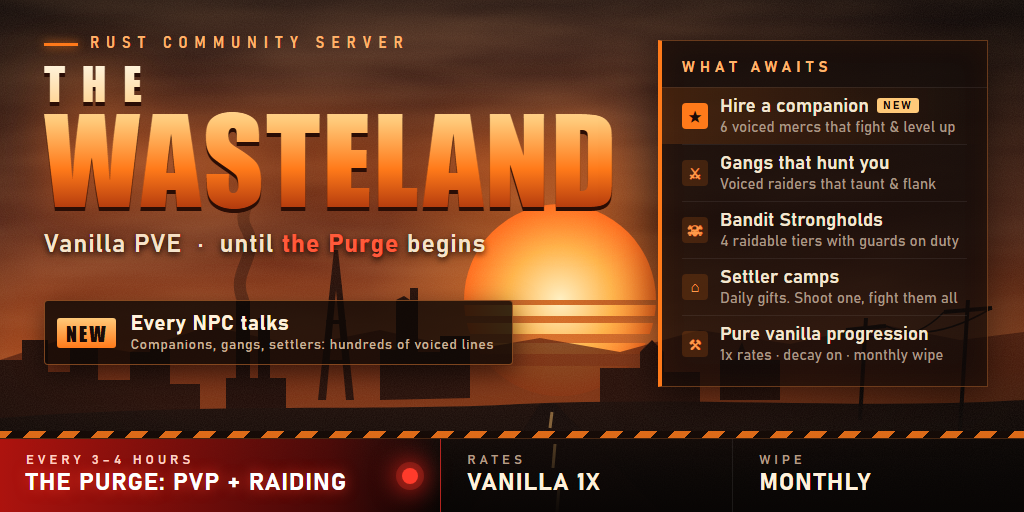
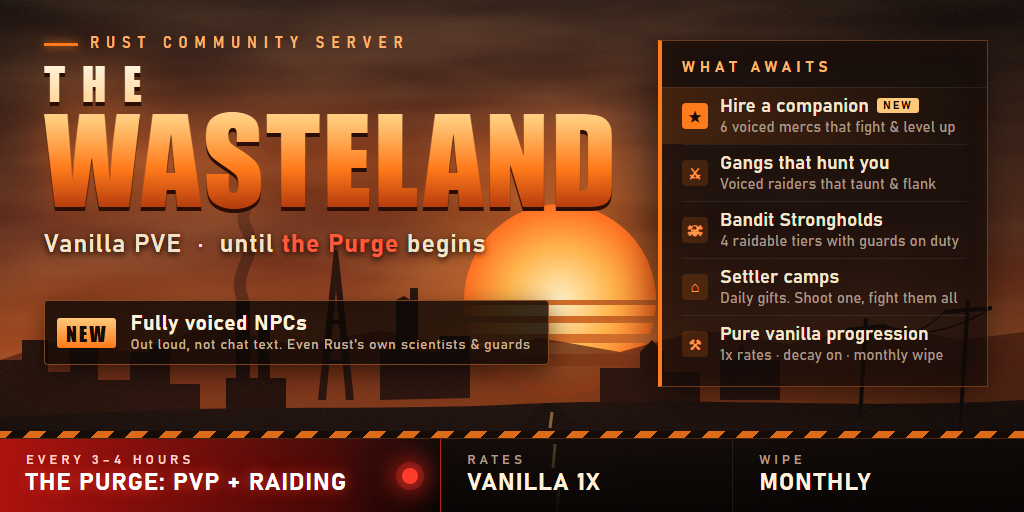
Rust's own NPCs voiced

Changed region(s): [[0.125, 0.5625, 0.5625, 0.75]]

diff --git a/index.html b/index.html
@@ -4,9 +4,9 @@
 <meta charset="utf-8">
 <meta name="viewport" content="width=device-width, initial-scale=1">
 <title>The Wasteland | 1x PVE Rust Server | Purge Nights</title>
-<meta name="description" content="Vanilla 1x PVE Rust server with a Purge every 3-4 hours. Talking NPCs, hireable companions, solo friendly. Monthly wipe.">
+<meta name="description" content="Vanilla 1x PVE Rust server with a Purge every 3-4 hours. Fully voiced NPCs, hireable companions, solo friendly. Monthly wipe.">
 <meta property="og:title" content="The Wasteland | 1x PVE | Purge Nights">
-<meta property="og:description" content="Vanilla 1x PVE Rust server with a Purge every 3-4 hours. Talking NPCs, hireable companions, solo friendly.">
+<meta property="og:description" content="Vanilla 1x PVE Rust server with a Purge every 3-4 hours. Fully voiced NPCs, hireable companions, solo friendly.">
 <meta property="og:image" content="banner.png">
 <link rel="icon" href="logo.png">
 <style>
@@ -78,8 +78,10 @@
     <p style="color:var(--dim);font-size:14px">Type <code>/purge</code> in game to see how long until the next one.</p>
   </div>
 
-  <h2>NPCs THAT TALK</h2>
+  <h2>FULLY VOICED NPCs</h2>
+  <p style="color:var(--dim);margin-top:0">Not chat text. NPCs speak out loud in game, with hundreds of recorded voice lines. That includes Rust's own NPCs. Monument scientists warn you off and swear at you, Oil Rig and Cargo crews call for backup, tunnel dwellers taunt you in the dark, Outpost and Bandit Camp guards tell you to holster it, and every vendor and quest giver reads their lines out loud.</p>
   <div class="grid">
+    <div class="card"><h3>Rust's own NPCs, voiced</h3><p>Scientists at every monument, the Oil Rig and Cargo, tunnel dwellers, safe-zone guards, and every vendor and quest giver from the fishing villages to Outpost.</p></div>
     <div class="card"><h3>Roaming gangs</h3><p>Bandit and scientist gangs roam the map. They fight each other, hunt players, and talk trash as they close in. Hostile NPCs drop scrap.</p></div>
     <div class="card"><h3>Bandit strongholds</h3><p>Raidable NPC bases spawn around the map, even outside the Purge. Bring explosives for the locked doors. Tougher bases, better loot.</p></div>
     <div class="card"><h3>Settler camps</h3><p>Camps along the roads, marked on your map. Each settler gives you a free gift once a day. Shoot one and the whole camp comes after you.</p></div>
@@ -89,7 +91,7 @@
   <h2>HIRE A COMPANION <small>NEW</small></h2>
   <p style="color:var(--dim);margin-top:0">Six fully voiced mercenaries wait at the settler camps. Walk up, press E, pay in scrap. They follow you, fight, carry loot in their pack, revive you when you go down and level up the longer you keep them. Treat them well and they turn loyal and unlock a perk.</p>
   <div class="grid">
-    <div class="card"><span class="price">50 scrap</span><h3>Barnaby</h3><div class="role">The Town Drunk</div><p>Fights with a guitar. Hostiles near him are too busy with his insults to aim at you properly.</p></div>
+    <div class="card"><span class="price">50 scrap</span><h3>Barnaby</h3><div class="role">The Town Drunk</div><p>Fights with a guitar. His insults throw enemies off, so they miss you more often.</p></div>
     <div class="card"><span class="price">400 scrap</span><h3>Pip</h3><div class="role">The Scavenger</div><p>Finds extra scrap in crates you open while she's nearby.</p></div>
     <div class="card"><span class="price">400 scrap</span><h3>Cole</h3><div class="role">The Hunter</div><p>Bolt-action rifle. More meat, leather and fat from animals you harvest.</p></div>
     <div class="card"><span class="price">750 scrap</span><h3>Mags</h3><div class="role">The Gunner</div><p>Ex-militia with a Thompson. Steady covering fire, hard to put down.</p></div>
@@ -102,6 +104,7 @@
     <li>Tuned for low pop. Power plant fuses decay much slower when only a few players are online.</li>
     <li>Loot from heli and Bradley is locked to whoever did the most damage.</li>
     <li>Settler gifts, NPC scrap drops and a companion help you get going alone.</li>
+    <li>Skin box: over 2,000 free Workshop skins for guns, armour, doors and boxes. Type <code>/skin</code>.</li>
   </ul>
 
   <h2>RULES</h2>
@@ -121,6 +124,8 @@
     <code>/companion</code><span>Orders, pack, talk and renew for your hired companion</span>
     <code>/trade NAME</code><span>Trade items with another player</span>
     <code>/friend add NAME</code><span>Add a friend so your doors and turrets trust them</span>
+    <code>/skin</code><span>Skin box: drop in a gun, armour, door or box and pick a free Workshop skin</span>
+    <code>/vote</code><span>Vote for the server once a day and get 50 scrap</span>
     <code>/remove</code><span>Remove your own building pieces</span>
     <code>/up 2|3|4</code><span>Upgrade the whole building you're looking at</span>
   </div>
